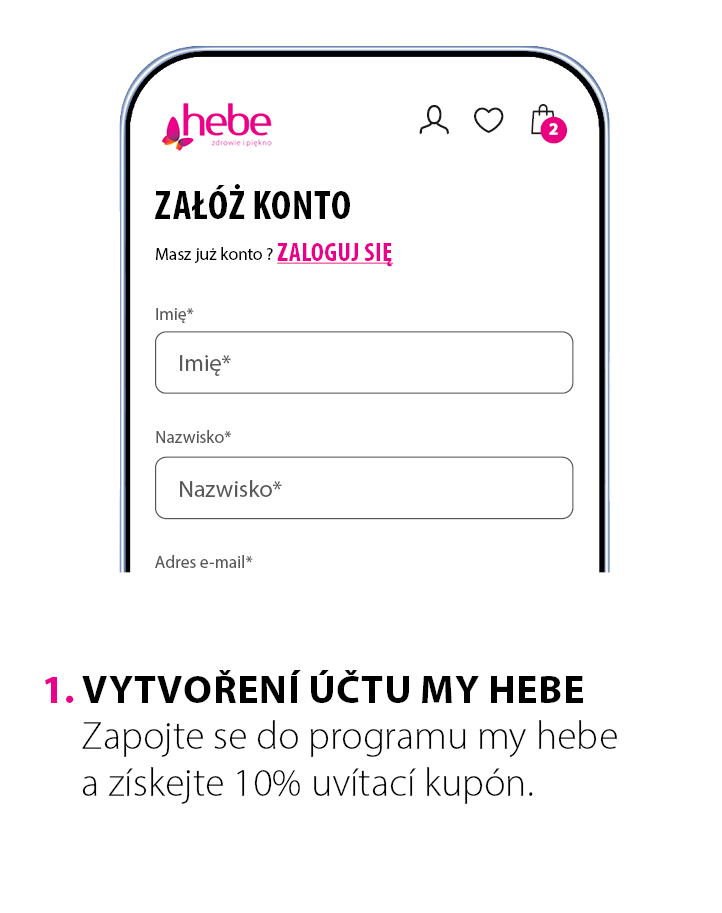
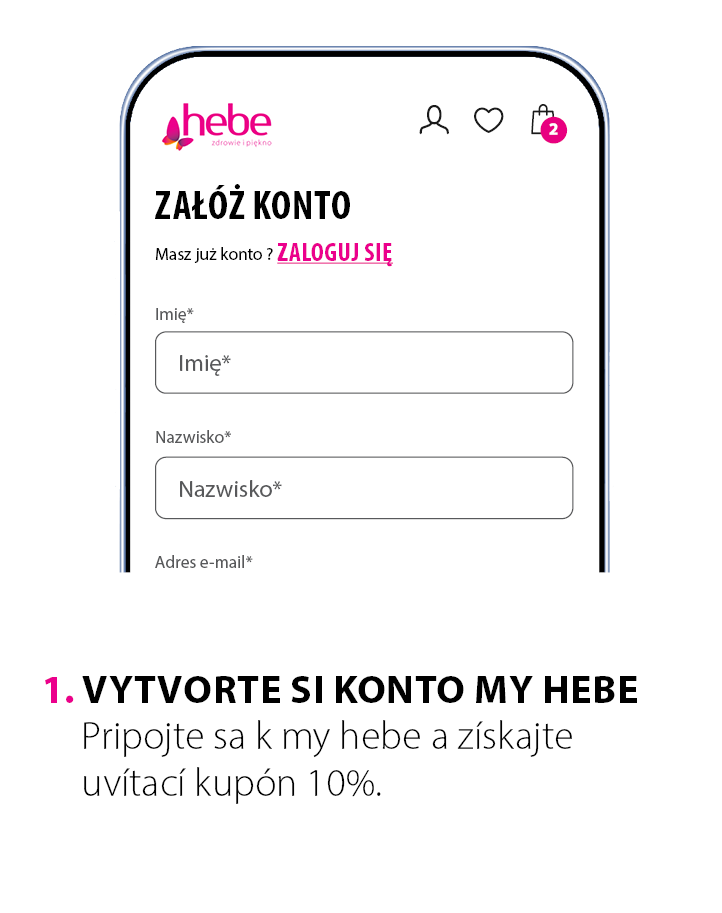
changed to sk but q&a

Changed region(s): [[0.0914, 0.736, 0.8837, 0.8894]]

diff --git a/landingPage.html b/landingPage.html
@@ -14,25 +14,25 @@
         </div>    
     </a>
     <div class="benefitsStandard">
-        <h1>PROZKOUMEJTE VÝHODY</h1>
+        <h1>PRESKÚMAJTE VÝHODY</h1>
         <h2>MY HEBE STANDARD</h2>
         <ul class="standardPoints">
             <li class="firstPoint">
                 <div class="firstStandard">
-                    <h3>OBDRŽÍTE UVÍTACÍ KUPÓN</h3>
-                    <h4>Připojte se k my hebe a získejte kupón 10%</h4>
+                    <h3>DOSTANETE UVÍTACÍ KUPÓN</h3>
+                    <h4>Pridajte sa k my hebe a získajte kupón na 10%</h4>
                 </div>
             </li>
             <li class="secondPoint">
                 <div class="secondStandard">
-                    <h3>SBÍREJTE DIAMANTY</h3>
-                    <h4>Provádějte nákupy, za které získáte diamanty</h4>
+                    <h3>ZBIERAJTE DIAMANTY</h3>
+                    <h4>Realizujte nákupy, za ktoré získate diamanty</h4>
                 </div>
             </li>
             <li class="thirdPoint">
                 <div class="thirdStandard">
-                    <h3>VYUŽIJTE INDIVIDUÁLNÍ NABÍDKY AŽ DO VÝŠE 60%</h3>
-                    <h4>Objevte slevy a ušetřete na svých oblíbených kosmetických produktech</h4>
+                    <h3>VYUŽITE PERSONALIZOVANÉ PONUKY AŽ DO VÝŠKY 60%</h3>
+                    <h4>Objavte zľavy a ušetrite na svojich obľúbených kozmetických výrobkoch</h4>
                 </div>
             </li>
         </ul>
@@ -41,33 +41,33 @@
     </div>
 
     <div class="benefitsVip">
-        <h1>PROZKOUMEJTE VÝHODY</h1>
+        <h1>PRESKÚMAJTE VÝHODY</h1>
         <h2>MY HEBE VIP</h2>
         <ul class="vipPoints">
             <li class="fourthPoint">
                 <div class="fourthStandard">
-                    <h3>OBDRŽÍTE UVÍTACÍ KUPÓN NA MY HEBE VIP</h3>
-                    <h4>Připojte se k my hebe VIP a získejte kupón 10%</h4>
+                    <h3>DOSTANETE UVÍTACÍ KUPÓN PRE MY HEBE VIP</h3>
+                    <h4>Pridajte sa k my hebe VIP a získajte kupón 10%</h4>
                 </div>
             </li>
             <li class="fifthPoint">
                 <div class="fifthStandard">
-                    <h3>OSLAVTE SVÉ NAROZENINY S KUPÓNEM</h3>
-                    <h4>Objevte 20% slevu a ušetřete na svých nákupech</h4>
+                    <h3>OSLÁVTE SVOJE NARODENINY KUPÓNOM</h3>
+                    <h4>Objavte 20% zľavu a ušetrite na svojich nákupoch</h4>
                 </div>
             </li>
             <li class="sixthPoint">
                 <div class="sixthStandard">
-                    <h3>VÝMĚNA DIAMANTŮ ZA KUPONY</h3>
-                    <h4>Využijte atraktivní slevy</h4>
+                    <h3>VYMEŇTE DIAMANTY ZA KUPÓNY</h3>
+                    <h4>Využite atraktívne zľavy</h4>
                 </div>
             </li>
         </ul>
-        <h4 id="vipstatus">Status my hebe VIP je platný 12 měsíců.</h4>
+        <h4 id="vipstatus">Status môj hebe VIP platí 12 mesiacov.</h4>
     </div>
 
     <div class="instruction">
-        <h2>JAK TO FUNGUJE?</h2>
+        <h2>AKO TO FUNGUJE?</h2>
         <div class="threeSteps">
             <img id="firstStep" class="phoneImage"/>
             <img id="secondStep" class="phoneImage"/>
@@ -87,9 +87,9 @@
         </div>
     </div>
     <div class="qa">
-        <h1>NEJČASTĚJI KLADENÉ<span class="pinkQ"> OTÁZKY</span></h1>
-        <h4>V sekci FAQ najdete odpovědi na nejčastější otázky týkající se sbírání,
-            používání a výměny diamantů v my hebe VIP.</h4>
+        <h1>ČASTO KLADENÉ<span class="pinkQ"> OTÁZKY</span></h1>
+        <h4>V časti Často kladené otázky nájdete odpovede na najčastejšie otázky týkajúce sa zbierania,
+            používania a výmeny diamantov v službe my hebe VIP.</h4>
         <div class="qaSector1">
             <div class="qaOne">
                 <h5 class="number">01</h5>
